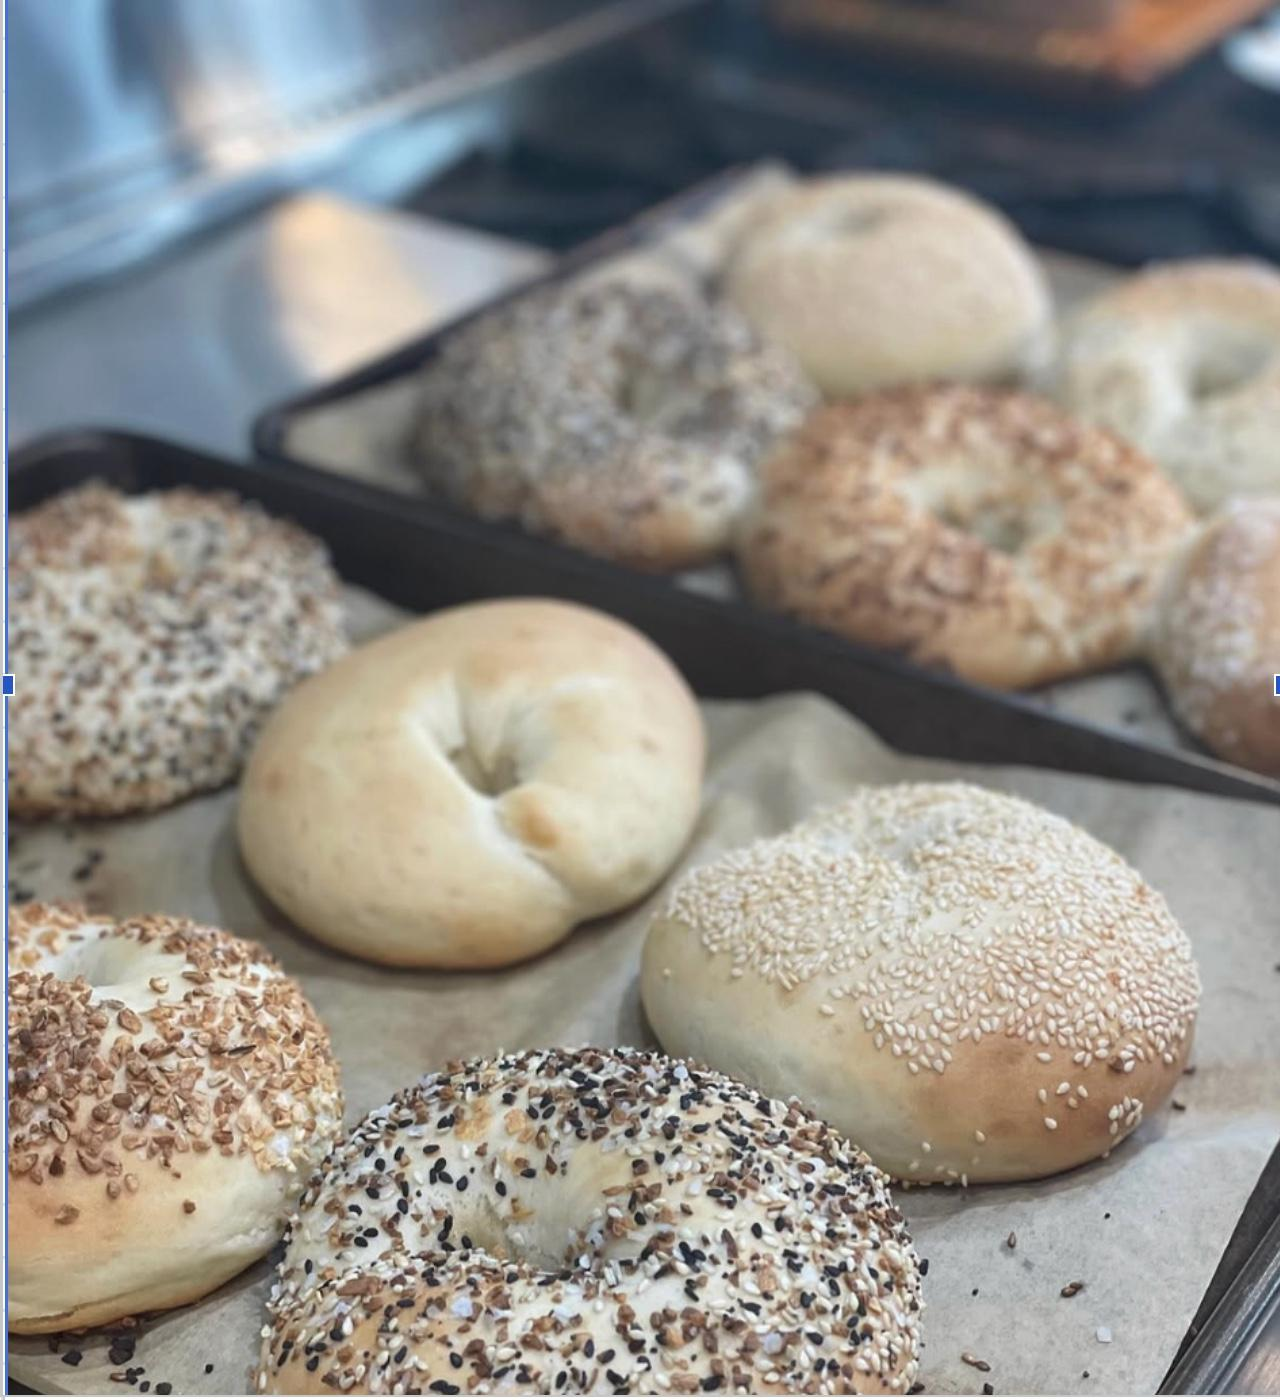
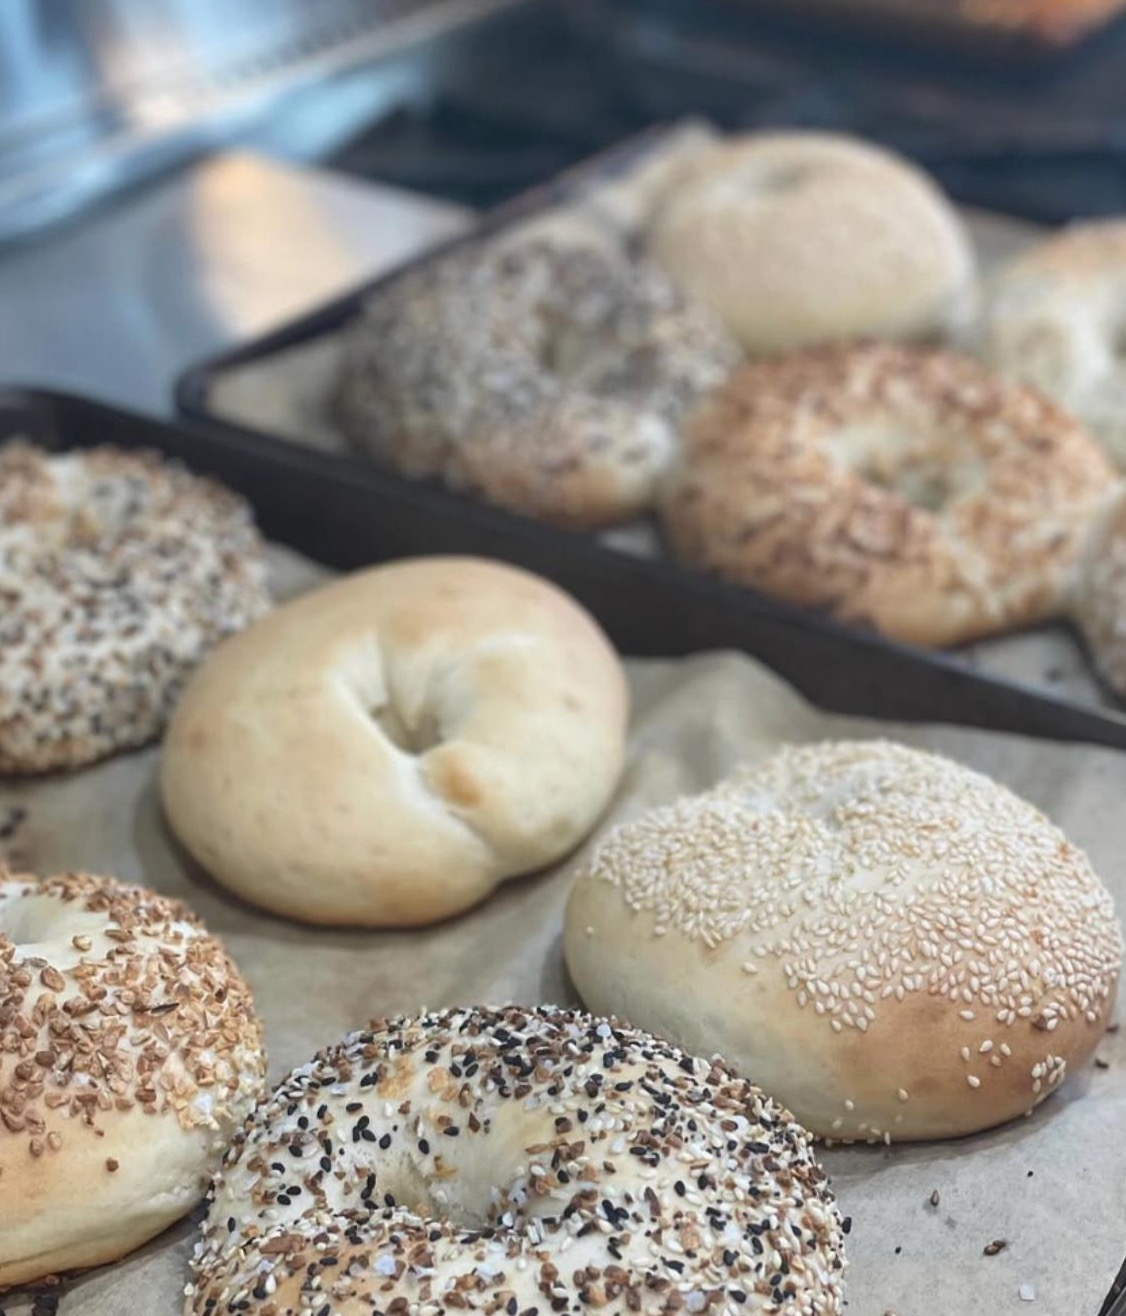
Crop Jerusalem Bagels photo to remove stray blue border marks
The source photo had faint blue tick marks near its left/right edges
(likely a leftover UI artifact from how it was embedded/exported in the
owner's spreadsheet). Center-cropped ~12% off the width and ~6% off the
height to remove them, which also zooms in slightly per the owner's
request.

diff --git a/dist/index.html b/dist/index.html
@@ -253,10 +253,10 @@
             
             <button type="button" class="product-card__zoom"
                     data-lightbox-src="assets/images/products/jerusalem-bagels-1100.jpg" data-lightbox-w="1100"
-                    data-lightbox-h="1203" data-lightbox-alt="Several oval Jerusalem-style bagels topped with sesame and za&#x27;atar seed blends, fresh from the oven on parchment paper."
+                    data-lightbox-h="1285" data-lightbox-alt="Several oval Jerusalem-style bagels topped with sesame and za&#x27;atar seed blends, fresh from the oven on parchment paper."
                     data-lightbox-caption="Jerusalem Bagels"
                     aria-label="View a larger photo of Jerusalem Bagels">
-              <img src="assets/images/products/jerusalem-bagels-1100.jpg" srcset="assets/images/products/jerusalem-bagels-400.jpg 400w, assets/images/products/jerusalem-bagels-600.jpg 600w, assets/images/products/jerusalem-bagels-800.jpg 800w, assets/images/products/jerusalem-bagels-1100.jpg 1100w" sizes="(min-width: 860px) 30vw, (min-width: 560px) 45vw, 92vw" width="1100" height="1203" alt="Several oval Jerusalem-style bagels topped with sesame and za&#x27;atar seed blends, fresh from the oven on parchment paper." loading="lazy" decoding="async">
+              <img src="assets/images/products/jerusalem-bagels-1100.jpg" srcset="assets/images/products/jerusalem-bagels-400.jpg 400w, assets/images/products/jerusalem-bagels-600.jpg 600w, assets/images/products/jerusalem-bagels-800.jpg 800w, assets/images/products/jerusalem-bagels-1100.jpg 1100w" sizes="(min-width: 860px) 30vw, (min-width: 560px) 45vw, 92vw" width="1100" height="1285" alt="Several oval Jerusalem-style bagels topped with sesame and za&#x27;atar seed blends, fresh from the oven on parchment paper." loading="lazy" decoding="async">
               <span class="product-card__zoom-icon" aria-hidden="true"><svg viewBox="0 0 24 24" fill="none" stroke="currentColor" stroke-width="1.8" aria-hidden="true"><circle cx="10.5" cy="10.5" r="6.5"/><path d="M15.3 15.3 21 21"/><path d="M10.5 7.5v6M7.5 10.5h6"/></svg></span>
             </button>
           </div>
